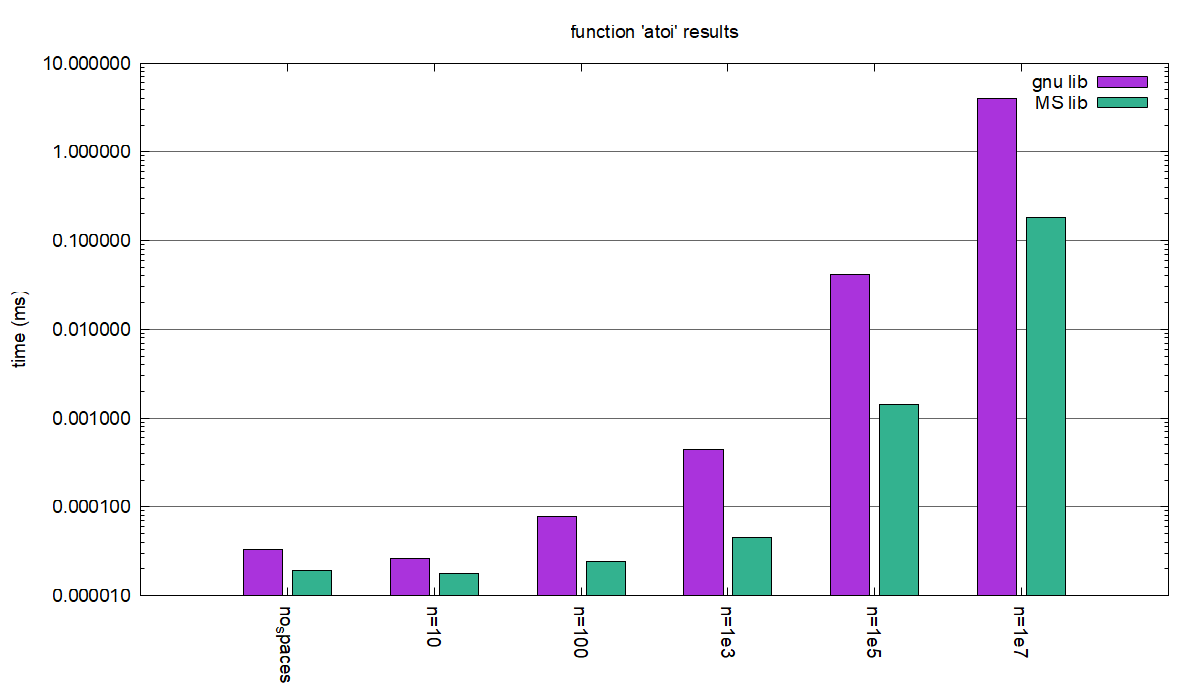
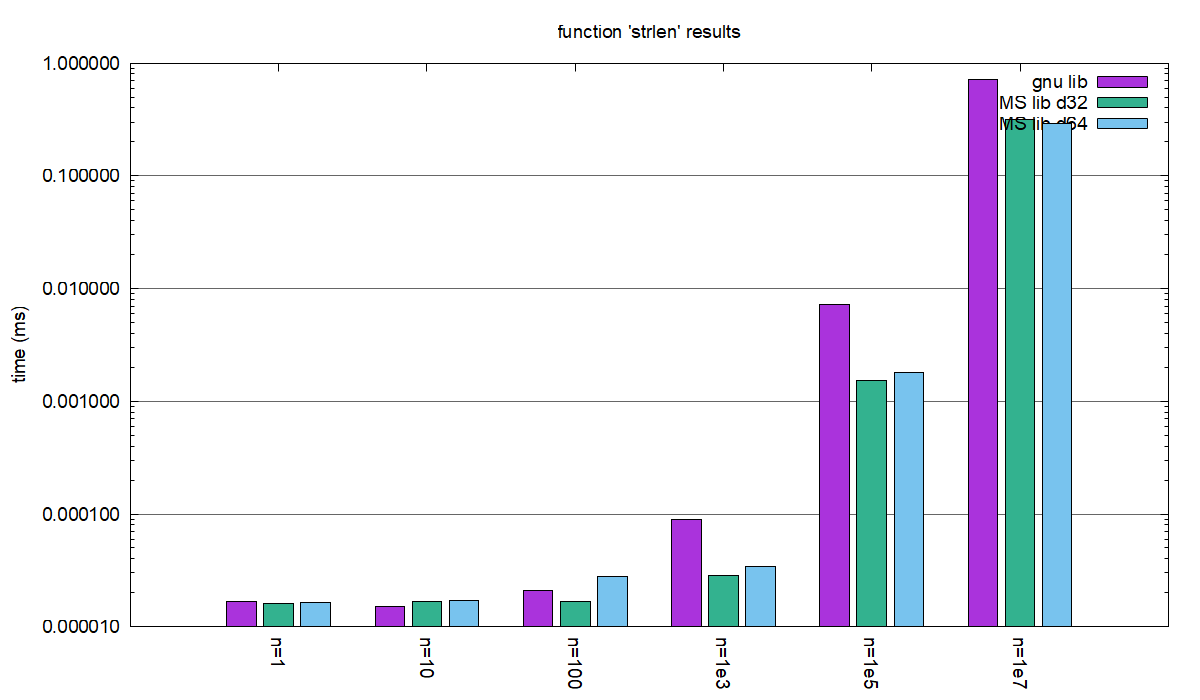
update strlen with may be more fast method?

diff --git a/include/ms_string_strend.h b/include/ms_string_strend.h
@@ -49,9 +49,10 @@ MSLIB_EXPORT char *ms_strend_avx2_d32(const char *str)
     while (1)
     {
         __m256i ymm0 = _mm256_loadu_si256((__m256i *)(str +  0));
-        uint32_t msk0 = _mm256_movemask_epi8(_mm256_cmpeq_epi8(ymm0, _mm256_setzero_si256()));
-        if (msk0)
+        __m256i ymm1 = _mm256_cmpeq_epi8(ymm0, _mm256_setzero_si256());
+        if (!_mm256_testz_si256(ymm1, ymm1))
         {
+            uint32_t msk0 = _mm256_movemask_epi8(ymm1);
             return (char *)str + _tzcnt_u32((size_t)msk0);
         }
         str += 32;
@@ -88,10 +89,12 @@ MSLIB_EXPORT char *ms_strend_avx2_d64(const char *str)
     {
         __m256i ymm0 = _mm256_loadu_si256((__m256i *)(str +  0));
         __m256i ymm1 = _mm256_loadu_si256((__m256i *)(str + 32));
-        uint32_t msk0 = _mm256_movemask_epi8(_mm256_cmpeq_epi8(ymm0, _mm256_setzero_si256()));
-        uint32_t msk1 = _mm256_movemask_epi8(_mm256_cmpeq_epi8(ymm1, _mm256_setzero_si256()));
-        if (msk0 | msk1)
+        __m256i ymm2 = _mm256_cmpeq_epi8(ymm0, _mm256_setzero_si256());
+        __m256i ymm3 = _mm256_cmpeq_epi8(ymm1, _mm256_setzero_si256());
+        if (!(_mm256_testz_si256(ymm2, ymm2) & _mm256_testz_si256(ymm3, ymm3)))
         {
+            uint32_t msk0 = _mm256_movemask_epi8(ymm2);
+            uint32_t msk1 = _mm256_movemask_epi8(ymm3);
             return (char *)str + _tzcnt_u64((size_t)msk0 | ((size_t)msk1 << 32ull));
         }
         str += 64;
